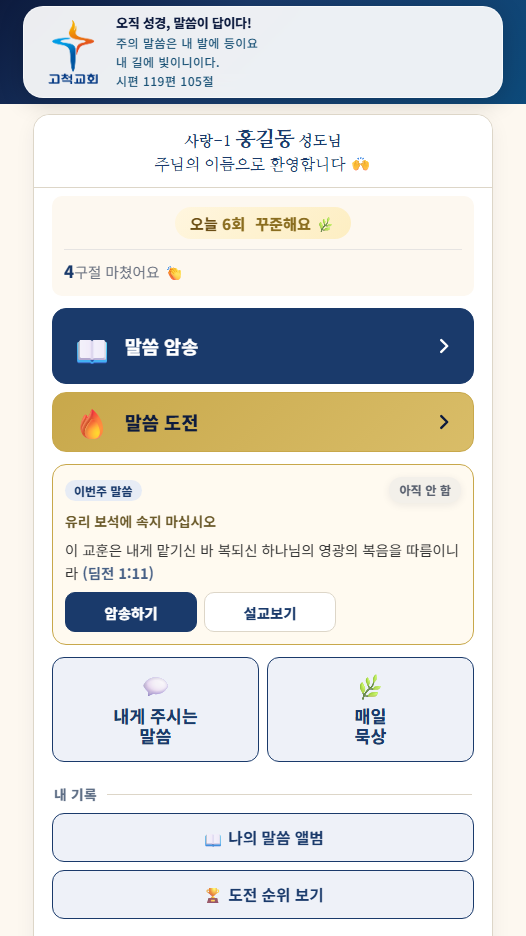
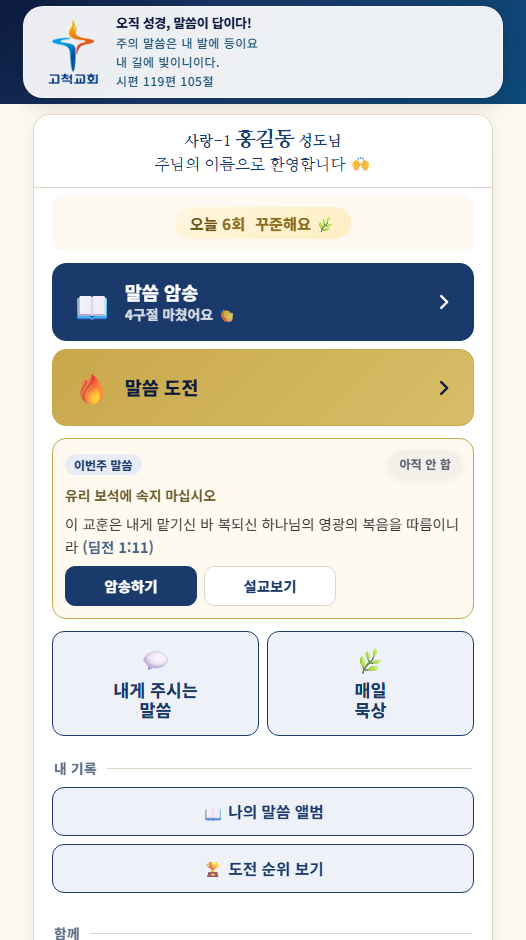
feat(첫 화면): 마친 구절 수를 「말씀 암송」 단추 안 둘째 줄로(꼭 한 줄) · 두 단추 같은 크기 · 「성경말씀 암송 퀴즈」 — v3.591
친구 — 「단추를 크게 하려면 위 글을 넣고 위에선 없애고」 · 「말씀 암송 아래 그 글은 꼭 한 줄에 다」 · 「크기도 같게」.
· 위 상자에는 「오늘 N회」 알약만 · 진행 줄(sbLine)은 TODO.sub 로 단추 안에
· 꼭 한 줄: nowrap + fitTodoSub(넘치면 0.5px 씩 · 10px 까지 · 글꼴 내려온 뒤 · 폭 바뀔 때)
· 두 단추 min-height: var(--go-h)(rem 셈 — 글자 크게 설정에서도 같이) · ≤340px 은 옆 여백·그림을 둘 다 조금 줄임
· 「더 보기」 🎯 성경암송 퀴즈 → 성경말씀 암송 퀴즈
· 도움말 「첫 화면 위쪽에」 → 「말씀 암송 단추 안에」 · guide ② 「맨 큰」 뺌 · guide/shots/home.png 다시 찍음

diff --git a/style.css b/style.css
@@ -1575,10 +1575,15 @@ body.native-app-hide-ref .word-input { scroll-margin-top: 90px; }
 /* ── 오늘 할 일 (2026-09-02) ────────────────────────────────────
    상태를 보고 하나만 크게. 아래 sub-actions 는 그 나머지라 한 단계 작다.
    ⚠ 이 둘의 크기 차이가 곧 「먼저 이걸 누르세요」다 — 비슷하게 만들면 뜻이 없어진다.
-   (2026-10-12 — 폭 · 정렬 · 그림 · 글 크기는 맞추고 높이와 색으로만 가른다. 아래 「.sub-actions.one」 덩이) */
+   (→ 2026-10-12 친구 결정으로 바뀌었다: 두 단추를 같은 크기로 — 폭 · 높이(76px) · 정렬 · 그림 · 글 크기 모두.
+      9/02 의 크기 차이는 큰 단추가 상황 따라 바뀌던 때의 것이고, 10/11 부터 두 단추는 늘 같은 자리 · 같은 이름이다.
+      이제 「먼저 이것」은 **자리(위)와 색(남색)** 이 말한다. 아래 「.sub-actions.one」 덩이와 같은 값.
+      높이 = 「말씀 암송」의 두 줄(이름 + 마친 구절 수 — 위 상자에서 옮겨 왔다) + 위아래 여백 16px + 테두리 = --go-h(보통 76px).
+      rem 으로 셈해 글자 크게 설정(시스템 글꼴 크기)에서 위 단추가 커지면 「말씀 도전」도 같이 커진다. 「말씀 도전」은 한 줄이라 높이만 맞춘다.) */
+:root { --go-h: calc(1.16rem * 1.2 + 3px + .86rem * 1.25 + 35px); }   /* .todo-tx 줄 + 틈 + .todo-sub 줄 + 여백 32 + 테두리 3 */
 .todo-go {
   display: flex; align-items: center; gap: 12px;
-  width: 100%; margin: 0 0 8px; padding: 16px 18px;
+  width: 100%; margin: 0 0 8px; padding: 16px 18px; min-height: var(--go-h);   /* 「말씀 도전」과 같은 높이(2026-10-12) */
   color: #fff; background: var(--navy); border: 1.5px solid var(--navy);
   border-radius: 14px; cursor: pointer; font-family: inherit; text-align: left;
   transition: background .15s, transform .12s, box-shadow .15s;
@@ -1588,11 +1593,10 @@ body.native-app-hide-ref .word-input { scroll-margin-top: 90px; }
 .todo-go:active { transform: translateY(0); box-shadow: 0 2px 8px rgba(13,27,62,.22); }
 .todo-go .todo-ic { font-size: 1.9rem; line-height: 1; flex: none; }
 .todo-go .todo-body { display: flex; flex-direction: column; gap: 3px; min-width: 0; }
-/* ⚠ 아래 줄(.todo-sub)이 없어도 단추 높이는 두 줄일 때와 같게 — 2026-10-12 「아직 N구절 남았어요」를 빼면서.
-   (같은 날 다 마치신 분의 축하 줄도 뺐다 — 이제 아래 줄은 늘 없다. 이 높이(76px)가 「말씀 도전」(60px)과의 차이 = 「먼저 이것」이다.)
-   줄이 빠져 단추가 12px 줄면 그 아래 「말씀 도전」이 위로 올라간다. 단추가 늘 같은 자리여야 한다는 것이
-   2026-10-11 결정이다(어르신 「자리가 바뀌어 헷갈린다」). 두 줄 높이 = 위 줄 + 틈 + 아래 줄(아래 두 규칙과 같은 값). */
-.todo-go .todo-body { min-height: calc(1.16rem * 1.2 + 3px + .86rem * 1.25); justify-content: center; }
+/* ⚠ 단추 높이는 --go-h 가 정한다 — 둘째 줄(.todo-sub · 마친 구절 수)은 **꼭 한 줄**이라(친구 2026-10-12)
+   단추가 커지지 않는다. 넘치면 app.js fitTodoSub 가 글씨를 줄인다. 두 줄로 꺾이게 두면 위 단추만 커져
+   「말씀 도전」이 아래로 밀리고(10/11 「늘 같은 자리」) 두 단추 크기도 달라진다. */
+.todo-go .todo-sub { white-space: nowrap; overflow: hidden; }
 .todo-go .todo-tx { font-size: 1.16rem; font-weight: 800; line-height: 1.2; }
 .todo-go .todo-sub { font-size: .86rem; font-weight: 600; opacity: .82; line-height: 1.25; }
 /* 도전이 오늘 할 일이면 금색 — 색은 「무엇인가」를 말한다(도전·성취=금색) */
@@ -4190,13 +4194,14 @@ body.ab-playing .verse-grid { padding-bottom: 200px; }
 .summary-actions.sub-actions .act-ic { font-size: 1.1rem; margin-bottom: 0; }
 .summary-actions.sub-actions .act-tx { font-size: .93rem; }
 /* 하나뿐일 때(「말씀 도전」) — 위 「말씀 암송」(.todo-go)과 같은 짝으로(2026-10-12 친구 「단추가 같아 보이지 않는다」).
-   폭 · 왼쪽 정렬 · 그림 크기 · 글 시작 자리 · 글 크기 · 모서리를 위 단추와 같게 두고, 높이(76 vs 60)와 색(남색 vs 금색)으로만 가른다.
+   폭 · 왼쪽 정렬 · 그림 크기 · 글 시작 자리 · 글 크기 · 모서리를 위 단추와 같게 두고, 자리(위아래)와 색(남색 vs 금색)으로만 가른다.
+   (같은 날 높이도 같게 — 친구 「크기도 같게」. --go-h = 위 단추의 두 줄 높이 · .todo-go 와 같은 값.)
    ⚠ 9/02 에는 폭을 62% 로 줄여 가운데 두었다 — 큰 단추가 상황 따라 바뀌던 「오늘 할 일 하나」 시절에 「먼저 이걸」을 크기로 말하려던 것.
       10/11 부터 두 단추가 늘 같은 자리 · 같은 이름이라 그 까닭이 없어졌고, 폭과 정렬이 다르니 다른 종류의 단추로 보였다.
    ⚠ 그림 칸에 너비를 박지 말고 글자 크기만 위 단추와 같게(1.9rem) — 그림 글자 폭은 기기 글꼴마다 다르다(윈도 크롬 📖 ≈ 41px).
       같은 글꼴의 그림 글자는 폭이 같아서, 크기만 맞추면 어느 기기에서나 「말씀」 두 글자가 위아래로 맞는다. */
 .summary-actions.sub-actions.one .summary-go {
-  flex: 1 1 100%; min-height: 60px; padding: 10px 18px; gap: 12px;
+  flex: 1 1 100%; min-height: var(--go-h); padding: 16px 18px; gap: 12px;
   justify-content: flex-start; text-align: left; border-radius: 14px;
 }
 .summary-actions.sub-actions.one .act-ic { font-size: 1.9rem; flex: none; }
@@ -4205,6 +4210,12 @@ body.ab-playing .verse-grid { padding-bottom: 200px; }
    색은 단추 글자색을 따른다(남색 단추 = 흰색 · 금색 단추 = 짙은 남색 · stroke="currentColor"). */
 .todo-go .go-chev,
 .summary-actions .summary-go .go-chev { flex: none; width: 22px; height: 22px; margin-left: auto; }
+/* 좁은 폰(≤340px · 「화면 크게」를 켠 폰이 이만큼 좁다) — 두 단추 똑같이 옆 여백 · 그림 · 틈을 조금 줄여
+   「말씀 암송」 둘째 줄(꼭 한 줄)의 글씨가 덜 줄게 한다. 두 단추에 같은 값이라 글 시작 자리는 그대로 맞는다. */
+@media (max-width: 340px) {
+  .todo-go, .summary-actions.sub-actions.one .summary-go { padding-left: 14px; padding-right: 14px; gap: 10px; }
+  .todo-go .todo-ic, .summary-actions.sub-actions.one .act-ic { font-size: 1.6rem; }
+}
 
 /* ── 사용자 정보 한 상자 (2026-09-02) ─────────────────────────────
    「오늘 몇 회」와 「전체 진행」은 둘 다 내 상태다 — 상자 둘로 나눠 두면
@@ -4223,15 +4234,14 @@ body.ab-playing .verse-grid { padding-bottom: 200px; }
 }
 /* 오늘의 보람 — 알약. 등급이 오를수록 진해진다(안 오르면 보람이 없다). */
 .user-info .today-strip {
-  display: inline-flex; width: auto; margin: 0 0 10px; padding: 5px 15px;
+  display: inline-flex; width: auto; margin: 0; padding: 5px 15px;   /* 아래 진행 줄이 단추로 옮겨 가 밑 여백 없음(2026-10-12) */
   border-radius: 999px; background: linear-gradient(135deg, #fff6df, #fdeec2);
 }
 .user-info .today-strip.t0 { background: var(--light); }
 .user-info .today-strip.t4,
 .user-info .today-strip.t5 { background: linear-gradient(135deg, #ffeeb8, #f6d67c); }
 
-.user-info .ui-div { height: 1px; background: rgba(26,58,107,.10); margin: 0 0 10px; }
-.user-info .stat-bar { margin: 0; padding: 0; background: none; border-radius: 0; }
+/* .ui-div · .stat-bar(진행 줄)는 2026-10-12 「말씀 암송」 단추 안으로 옮겨 이 상자에서 뺐다 — 위쪽 .stat-bar 규칙은 이제 안 쓰인다 */
 
 .dark .user-info { background: #1b2436; }
 .dark .user-info .today-strip { background: #2b2717; }

diff --git a/app.js b/app.js
@@ -6,7 +6,7 @@
 
 // 이 파일의 빌드 번호 — index.html의 app.js?v= 와 반드시 같아야 한다.
 // (tools/bump.py가 둘을 함께 올린다)
-const APP_BUILD = "20261012r";
+const APP_BUILD = "20261012s";
 
 // 배포 직후 CDN이 아직 옛 app.js를 내보내면, 브라우저는 그 옛 내용을 '새 주소'
 // 아래 캐시해 버린다. 주소가 다시 바뀌기 전까지(최대 10분) 옛 화면이 남는 이유다.
@@ -3229,8 +3229,9 @@ function renderSummary() {
   // ⚠ 2026-10-12 친구 결정 — 「아직 N구절 남았어요」를 뺐다. 새로 오신 분은 첫 화면에서
   //    「아직 41구절 남았어요」부터 보셨고, 구절이 매주 하나씩 늘어 내년엔 90을 넘는다 —
   //    시작도 전에 짐이 된다는 말씀이 이미 있었다. 남은 수를 세는 대신 아무 말도 하지 않는다.
-  //    같은 날 다 마치신 분의 「N구절 모두 마치셨어요 🎉」도 뺐다(친구) — 바로 위 진행 줄이 「N구절 모두 마쳤어요 🎉」로
-  //    같은 말을 해 한 화면에 두 번 나왔다. 축하는 진행 줄이 맡는다. 단추 높이는 그대로다(style.css .todo-body min-height).
+  //    같은 날 다 마치신 분의 「N구절 모두 마치셨어요 🎉」도 뺐다(친구) — 위 상자의 진행 줄과 같은 말이 두 번 나왔다.
+  //    → 그리고 거꾸로 **진행 줄을 위 상자에서 빼 이 단추 안 둘째 줄로 옮겼다**(친구 — 「단추를 크게 하려면 위 글을 넣고 위에선 없애고」).
+  //    둘째 줄은 아래 sbLine(이제 시작이에요 · N구절 마쳤어요 · N구절 모두 마쳤어요) — **꼭 한 줄**(fitTodoSub).
   // 2026-10-12 친구 — 단추 이름도 「말씀 암송하기」 → 「말씀 암송」(아래 「말씀 도전」과 짝을 맞춘다).
   //    이 이름을 부르는 곳(설명서 MANUAL 「말씀 암송」 장 · guide/index.html ② 첫 화면)도 함께 바꿨다.
   const TODO = { id: "go-list", cls: "", ic: "📖", tx: "말씀 암송", sub: "" };
@@ -3253,6 +3254,7 @@ function renderSummary() {
     : done === 0
     ? `이제 시작이에요`
     : `<b>${done}</b>구절 마쳤어요 👏`;
+  TODO.sub = sbLine;   // 2026-10-12 친구 — 위 상자가 아니라 「말씀 암송」 단추 안 둘째 줄에(꼭 한 줄 · fitTodoSub)
   const weeklyInfo = getWeeklyVerseInfo();
   const weeklyVerse = weeklyInfo && weeklyInfo.verse;
   const weeklyStage = weeklyVerse ? getPassedStage(weeklyVerse.no) : 0;
@@ -3291,13 +3293,8 @@ function renderSummary() {
          이제 정보 둘 → 이벤트 카드 → 오늘 할 일 순이다. -->
     <div class="user-info" id="user-info">
       <div class="today-strip" id="today-strip"><span class="today-txt">오늘의 말씀 활동을 불러오는 중…</span></div>
-      <div class="ui-div"></div>
-      <!-- 진행 막대 — 다 마치신 분일수록 네 칸이 「암송 0 · 진행중 0 · 미시도 0」이
-           되어 아무것도 안 한 것처럼 보였다(마음에 둠은 완료의 부분집합이라 완료에서
-           빼기 때문). 한 줄로만 말한다. -->
-      <div class="stat-bar">
-        <span class="sb-line">${sbLine}</span>
-      </div>
+      <!-- 진행 줄(sbLine · 마친 구절 수)은 2026-10-12 「📖 말씀 암송」 단추 안 둘째 줄로 옮겼다(친구) —
+           같은 말이 상자와 단추에 두 번 나왔고, 마친 수는 「암송」 단추에 붙어 있을 때 뜻이 산다. -->
     </div>
     <!-- 이벤트는 「오늘 할 일」 바로 위 — 누르는 것들 바로 앞자리다 -->
     <div id="event-slot"></div>
@@ -3379,7 +3376,7 @@ function renderSummary() {
     <button class="grp-more" id="more-toggle" aria-expanded="false" aria-controls="more-box">더 보기 <span class="gm-caret">▾</span></button>
     <div id="more-box" hidden>
       <button class="summary-help" id="open-pilsa">✍ 성경필사 노트 신청</button>
-      <button class="summary-help" id="open-quiz">🎯 성경암송 퀴즈</button>
+      <button class="summary-help" id="open-quiz">🎯 성경말씀 암송 퀴즈</button>
       <button class="summary-help" id="open-praise">🎵 고척교회 찬양 아카이브 <span class="ext-mark">↗</span></button>
       <button class="summary-help" id="open-sermon-archive">📺 고척교회 설교 아카이브 <span class="ext-mark">↗</span></button>
     </div>
@@ -3489,8 +3486,26 @@ function renderSummary() {
     } catch (e) {}
   })();
   if (homeBPreview()) applyHomeB();   // 🧪 첫 화면 B안 미리보기(?home=b 로 연 기기만)
+  fitTodoSub();   // 「말씀 암송」 둘째 줄을 꼭 한 줄로
+  try { if (document.fonts && document.fonts.ready) document.fonts.ready.then(fitTodoSub); } catch (e) {}
   maybeAutumnPopup();   // 가을 말씀암송 동행 개시 1회 안내(열린 회차가 autumn-2026 이면 한 번만)
 }
+
+// 「📖 말씀 암송」 둘째 줄(마친 구절 수)은 **꼭 한 줄**(친구 2026-10-12) — 꺾지도 자르지도 않는다.
+//   좁은 폰(320px · 어르신들이 「화면 크게」를 켜면 폭이 그만큼 좁아진다)이나 글자 크게 설정에서 넘치면
+//   글씨를 0.5px 씩 줄여 맞춘다(10px 까지). 글꼴이 늦게 내려오거나(fonts.ready) 화면 폭이 바뀌면 다시 잰다.
+function fitTodoSub() {
+  const el = document.querySelector("#go-list .todo-sub");
+  if (!el) return;
+  el.style.fontSize = "";
+  let fs = parseFloat(getComputedStyle(el).fontSize) || 14;
+  for (let i = 0; i < 24 && el.scrollWidth > el.clientWidth + 0.5 && fs > 10; i++) {
+    fs -= 0.5;
+    el.style.fontSize = fs + "px";
+  }
+}
+let _fitTodoSubT = 0;
+window.addEventListener("resize", () => { clearTimeout(_fitTodoSubT); _fitTodoSubT = setTimeout(fitTodoSub, 120); });
 
 // 「더 보기」 — 필사·퀴즈·아카이브 둘. 이건 연 상태를 기억한다.
 // 자주 쓰시는 분이 매번 다시 펴야 하면 접어 둔 뜻이 없다.
@@ -9016,7 +9031,7 @@ function renderHelp(onClose) {
 
         <section class="help-section">
           <h3>🏷 내 기록 & 진행 표시</h3>
-          <p>첫 화면 위쪽에 <b>마친 구절 수</b>가 보여요. 말씀 목록 카드에는 <b>아직 안 함 · 1단계 마침 · 2단계 마침 · 다 마침</b>(+ 암송 횟수)이 보여요. 목록 위 <b>전체 · 진행 · 마침 · 마음에 둠 · 안 함</b>을 누르면 그것만 모아 볼 수 있어요. 마음에 둔 말씀은 본문 대신 <b>첫 낱말 힌트</b>로 보여요 — 떠올려 보세요. 3단계를 마친 말씀은 <b>📖 나의 말씀 앨범</b>에 모여요.</p>
+          <p>첫 화면 <b>📖 말씀 암송</b> 단추 안에 <b>마친 구절 수</b>가 보여요. 말씀 목록 카드에는 <b>아직 안 함 · 1단계 마침 · 2단계 마침 · 다 마침</b>(+ 암송 횟수)이 보여요. 목록 위 <b>전체 · 진행 · 마침 · 마음에 둠 · 안 함</b>을 누르면 그것만 모아 볼 수 있어요. 마음에 둔 말씀은 본문 대신 <b>첫 낱말 힌트</b>로 보여요 — 떠올려 보세요. 3단계를 마친 말씀은 <b>📖 나의 말씀 앨범</b>에 모여요.</p>
         </section>
 
         <section class="help-section">

diff --git a/index.html b/index.html
@@ -65,7 +65,7 @@
   <link rel="preconnect" href="https://fonts.gstatic.com" crossorigin />
   <link href="https://fonts.googleapis.com/css2?family=Gowun+Batang:wght@400;700&family=Lora:wght@400;600;700&family=Nanum+Myeongjo:wght@400;700;800&family=Noto+Sans+KR:wght@400;500;700;800&display=swap" rel="stylesheet" media="print" onload="this.media='all'" />
   <noscript><link href="https://fonts.googleapis.com/css2?family=Gowun+Batang:wght@400;700&family=Lora:wght@400;600;700&family=Nanum+Myeongjo:wght@400;700;800&family=Noto+Sans+KR:wght@400;500;700;800&display=swap" rel="stylesheet" /></noscript>
-  <link rel="stylesheet" href="style.css?v=20261012r" />
+  <link rel="stylesheet" href="style.css?v=20261012s" />
 </head>
 <body>
   <!-- 앱 시작 스플래시 화면 -->
@@ -74,7 +74,7 @@
       <img id="splash-logo" src="img/logo-gocheok.png" alt="고척교회" />
       <div class="splash-title">오직 성경, 말씀이 답이다!</div>
       <div class="splash-sub">주의 말씀은 내 발에 등이요<br>내 길에 빛이니이다</div>
-      <div class="splash-ver">v3.590</div>
+      <div class="splash-ver">v3.591</div>
       <img class="splash-denom" src="logo3.png?v=20260702y" alt="대한예수교장로회총회" onerror="this.style.display='none'" />
     </div>
   </div>
@@ -107,11 +107,11 @@
     <p style="text-align:center;padding:40px">불러오는 중...</p>
   </main>
 
-  <script src="js/config.js?v=20261012r"></script>
-  <script src="js/api.js?v=20261012r"></script>
-  <script src="js/push.js?v=20261012r"></script>
-  <script src="js/psalm.js?v=20261012r"></script>
-  <script src="js/events.js?v=20261012r"></script>
-  <script src="app.js?v=20261012r"></script>
+  <script src="js/config.js?v=20261012s"></script>
+  <script src="js/api.js?v=20261012s"></script>
+  <script src="js/push.js?v=20261012s"></script>
+  <script src="js/psalm.js?v=20261012s"></script>
+  <script src="js/events.js?v=20261012s"></script>
+  <script src="app.js?v=20261012s"></script>
 </body>
 </html>

diff --git a/guide/index.html b/guide/index.html
@@ -177,9 +177,9 @@ var STEPS = [
     say:"앱의 <b>❓ 도움말</b>에서 ①번 <b>📲 지금 만들기</b>를 누르면 이런 안내가 나와요. 안드로이드는 「설치」 창이 바로 뜨기도 하고, 아이폰은 화면 맨 아래 <b>공유 단추</b>를 눌러 「홈 화면에 추가」를 고르시면 됩니다.",
     tip:"카카오톡 안에서 열면 되지 않아요. 먼저 「사파리로 열기」나 「다른 브라우저로 열기」를 누르세요." },
 
-  { img:"shots/home.png", t:"② 첫 화면", tap:{x:50,y:37},
+  { img:"shots/home.png", t:"② 첫 화면", tap:{x:50,y:32},
     s:"여기서 모든 것이 시작돼요.",
-    say:"내 이름과 <b>오늘 몇 번</b> 했는지가 위에 보여요. 그 아래 <b>맨 큰 남색 단추</b>가 「말씀 암송」, 바로 밑 금색 단추가 「말씀 도전」입니다.",
+    say:"내 이름과 <b>오늘 몇 번</b> 했는지가 위에 보여요. 그 아래 <b>남색 단추</b>가 「말씀 암송」, 바로 밑 <b>금색 단추</b>가 「말씀 도전」입니다.",
     tip:"두 단추는 늘 같은 자리에 있어요." },
 
   { img:"shots/list.png", t:"③ 말씀 목록", tap:{x:45,y:31},

diff --git a/admin.html b/admin.html
@@ -72,7 +72,7 @@
   // 관리 도구 목록 — 앞으로 여기에 한 줄씩 추가하면 됩니다
   const TOOLS = [
     // 성도 정보 관리는 교회 어드민(admin.onlybible.kr 「👤 성도 계정」)으로 옮겼다(2026-10-09) — 여기서 걷었다.
-    { ic:"📖", title:"성경암송 관리", desc:"통계 · 알림발송 · 주간리포트 · 게시판", href:"admin-stats.html?v=20261012r" },
+    { ic:"📖", title:"성경암송 관리", desc:"통계 · 알림발송 · 주간리포트 · 게시판", href:"admin-stats.html?v=20261012s" },
     { ic:"🎉", title:"이벤트 관리", desc:"회차 만들기 · 신청 명단 · 인쇄", href:"admin-event.html" },
     { ic:"🎵", title:"찬양 아카이브 관리", desc:"곡 등록 · 콤보순서 · 조회수 · 사용현황", href:"admin-praise.html" },
     { ic:"⛪", title:"설교·찬양 관리", desc:"설교 올리기(두 단계) · 설교 목록 · 매일 묵상 · 담당자 — 담당자도 이 주소로", href:"admin-sermon.html" },

diff --git a/docs/notes/home-screen.md b/docs/notes/home-screen.md
@@ -55,6 +55,17 @@
 - **2026-10-12 두 단추 오른쪽 끝에 「›」(친구 — 디자인 시안의 두 단추).** 누르면 다음 화면으로 간다는 표시. `renderSummary` 의 `GO_CHEV`(SVG · `aria-hidden` — 읽어 주기에서 「›」를 읽지 않게) · CSS `.go-chev`(22px · `margin-left: auto`). 글자(>·›)가 아니라 SVG 인 까닭: 기기 글꼴마다 꺾쇠의 굵기·높이가 달라 두 단추에서 어긋난다. 색은 단추 글자색을 따른다(남색 단추 흰색 · 금색 단추 짙은 남색).
   같은 날 **다 마치신 분의 「N구절 모두 마치셨어요 🎉」도 단추에서 뺐다**(친구 — 바로 위 진행 줄 「N구절 모두 마쳤어요 🎉」와 같은 말이 한 화면에 두 번). 축하는 진행 줄이 맡는다. 이제 단추 아래 줄은 늘 없고, 큰 단추 높이 76px(「말씀 도전」 60px 과의 차이 = 「먼저 이것」)은 `.todo-go .todo-body` 의 `min-height` 가 지킨다 — 320px 에서 이 줄 때문에 94px 로 커지던 것도 없어졌다. (꺾쇠 때문에 잠깐 넣었던 `keep-all`·붙는 빈칸은 함께 걷었다 · 템플릿의 `TODO.sub` 자리는 남겨 두었다.)
   확인: 폭 320·360·390·430 × 밝은·어두운 × A·B × 다 마친 분 — 두 꺾쇠의 오른쪽 끝(19px)·세로 가운데가 같다 · 글 시작 그대로(112) · 두 단추 높이 76·60 · 넘침 0. `guide/shots/home.png` 다시 찍음.
+- **2026-10-12 두 단추 높이도 같게 — 60px(친구 「글을 뺐다면 크기도 같게」 · → 바로 다음 항목에서 77px 로 바뀌었다).** 단추 안 글이 이름뿐이 되어 76px 은 빈 높이였다(`.todo-body` 의 두 줄 `min-height` 가 지키던 것). `.todo-go` 를 `padding: 10px 18px; min-height: 60px` 로 「말씀 도전」(`.sub-actions.one`)과 같게 하고 그 `min-height` 규칙은 걷었다. 이제 두 단추는 폭·높이·정렬·그림·글 크기·「›」가 모두 같고, **「먼저 이것」은 자리(위)와 색(남색)** 이 말한다 — 9/02 「크기 차이 = 먼저 누를 것」은 큰 단추가 상황 따라 바뀌던 때의 것이라 걷었다(style.css 주석에 남김). 첫 화면이 16px 짧아졌다.
+  같이 고친 말: `guide/index.html` ② 「그 아래 **맨 큰** 남색 단추가 「말씀 암송」」 → 「그 아래 남색 단추가 …, 바로 밑 금색 단추가 …」(이제 크기가 같아 참이 아니다 — 스킬 `copy-truth`). `guide/shots/home.png` 다시 찍음.
+  ⚠ 단추 아래 줄(`TODO.sub`)을 되살리면 위 단추만 커져 「말씀 도전」이 아래로 밀린다(10/11 「늘 같은 자리」) — 그때는 두 단추 높이를 함께 볼 것.
+  확인: 폭 320·360·390·430 × 밝은·어두운 × A·B × 다 마친 분 — 두 단추 60·60 · 글 시작 112·112 · 「›」 오른쪽 끝 같음 · 넘침 0.
+- **2026-10-12 마친 구절 수를 위 상자에서 「📖 말씀 암송」 단추 안 둘째 줄로 · 두 단추는 같은 큰 크기(친구 — 「단추를 크게 하려면 위 글을 넣고 위에선 없애고」 · 「말씀 암송 아래 그 글은 꼭 한 줄에 다」).**
+  - 위 상자(`#user-info`)에는 「오늘 N회 …」 알약만 남았다(`.ui-div`·`.stat-bar` 를 뺐다 · 알약 밑 여백 0). 진행 줄 `sbLine`(「이제 시작이에요」 · 「N구절 마쳤어요 👏」 · 「N구절 모두 마쳤어요 🎉」)은 `TODO.sub` 로 단추 안에. 도움말 「🏷 내 기록 & 진행 표시」도 「첫 화면 위쪽에」 → 「첫 화면 📖 말씀 암송 단추 안에」.
+  - **꼭 한 줄**: `.todo-sub { white-space: nowrap; overflow: hidden }` + `fitTodoSub()`(app.js — 넘치면 글씨를 0.5px 씩 줄인다 · 10px 까지 · 첫 화면 그린 뒤 · 글꼴이 내려온 뒤 · 화면 폭이 바뀔 때). 꺾이게 두면 위 단추만 커져 「말씀 도전」이 밀리고 두 단추 크기도 달라진다.
+  - **같은 크기**: 두 단추 모두 `min-height: var(--go-h)` — `--go-h` = 이름 줄 + 틈 + 둘째 줄 + 여백 32 + 테두리 3(보통 77px). rem 셈이라 글자 크게 설정(시스템 글꼴 크기)에서도 둘이 같이 커진다(root 20px 에서 87·87). 「말씀 도전」은 한 줄이라 높이만 맞춘다.
+  - 좁은 폰(≤340px — 어르신들이 「화면 크게」를 켜면 폭이 이만큼 좁다)은 두 단추 똑같이 옆 여백 18→14 · 그림 1.9→1.6rem · 틈 12→10 — 둘째 줄 글씨가 덜 준다(320px 「41구절 모두 마쳤어요 🎉」 10.8 → 12.3px). 같은 값이라 글 시작 자리는 그대로 맞는다.
+  - 확인: 폭 320·340·360·375·390·412·430 × 0·6·38·41(다)·99/101·101(다) × 밝은·어두운 × A·B × 글자 크게(root 20px) — 둘째 줄 한 줄 · 잘림 없음 · 「›」와 안 닿음 · 두 단추 같은 높이 · 글 시작 같음 · 위 상자에 진행 줄 없음 · 넘침 0 · 가장 작은 글씨 11.8px(320px · 101구절 다 마침). `guide/shots/home.png` 다시 찍음(② 동그라미 자리도).
+- **2026-10-12 「더 보기」 단추 이름 「🎯 성경암송 퀴즈」 → 「🎯 성경말씀 암송 퀴즈」(친구).** 이 이름은 첫 화면 단추 한 곳뿐이다(퀴즈 화면 `quiz/` 제목은 「말씀 퀴즈」 그대로). 320px 한 줄 · B안 칸 두 줄로 잘림 없음.
 - **2026-10-12 첫 실행을 가볍게 — 🎓 교육·🙋 봉사 당번 화면 코드는 필요할 때 받는다**(`index.html` 에서 `js/edu.js`·`js/duty.js` 를 뺐다 · 140KB/gzip 44KB · 단추가 보이면 한가할 때 미리 · 알림 주소는 첫 그리기 앞에서 기다린다). 단추를 숨기는 문 판단은 `app.js` 에 그대로다.
   ⚠ 「교회 생활」 묶음에 단추를 더하거나 두 파일의 전역을 `app.js` 에서 새로 부르기 전에 `docs/notes/lazy-load.md` — 첫 화면이 동기로 부르는 것을 지연 파일에 두면 그 자리가 조용히 빈다.
 

diff --git a/docs/notes/design-refresh.md b/docs/notes/design-refresh.md
@@ -19,7 +19,7 @@
 
 ## 시안 전체를 고르기 전에 먼저 앱에 넣은 것 (2026-10-12 친구 결정 · 새로 오신 분 부담 덜기)
 차례(4~7단계)를 건너뛰고 바로 운영에 넣었다 — 새로 오신 분이 힘들어하신다는 것이 까닭이다. **색은 지금 앱 색 그대로**(친구가 「지금 앱 색 유지」를 골랐다).
-- **첫 화면** — 큰 단추 아래 「아직 N구절 남았어요」를 뺐다 · 단추 이름 「말씀 암송하기」 → 「말씀 암송」 · 진행 줄에서 전체 수·%·막대를 뺐다(마친 수만) · 「🔥 말씀 도전」을 「📖 말씀 암송」과 같은 폭·정렬·그림·글 크기로(높이와 색으로만 가름 — 「같은 일은 같은 모양」 원칙의 첫 걸음) · 두 단추 오른쪽 끝에 시안의 「›」 · 다 마치신 분의 축하 줄도 단추에서 뺐다(진행 줄과 같은 말 — 단추 안 글은 이제 이름뿐). 상세 `docs/notes/home-screen.md` 끝.
+- **첫 화면** — 큰 단추 아래 「아직 N구절 남았어요」를 뺐다 · 단추 이름 「말씀 암송하기」 → 「말씀 암송」 · 진행 줄에서 전체 수·%·막대를 뺐다(마친 수만) · 「🔥 말씀 도전」을 「📖 말씀 암송」과 같은 폭·정렬·그림·글 크기·높이로(자리와 색으로만 가름 — 「같은 일은 같은 모양」 원칙의 첫 걸음) · 마친 구절 수를 위 상자에서 「말씀 암송」 단추 안 둘째 줄로(꼭 한 줄 · `fitTodoSub`) · 두 단추 오른쪽 끝에 시안의 「›」 · 같은 말이 두 번 나오던 것(위 상자 진행 줄 · 단추 축하 줄)은 하나로 — 단추 안 둘째 줄만 남았다. 상세 `docs/notes/home-screen.md` 끝.
 - **말씀 목록 = 시안 B 구조** — 카드에 풀어 쓴 구절 이름(`verseRefFull` — 「살전 5:16-18」 → 「데살로니가전서 5장 16-18절」)과 **본문 두 줄**(`verseText`, 명조 · 말줄임), 그 아래 상태 칩, 🔊 는 오른쪽. CSS 는 `style.css` 끝 「말씀 목록 — 시안 B 구조」 덩이.
   - **거르기 칸 다섯 = 외우는 걸음 사다리**(친구 · 같은 날 고침): 전체 · **진행**(1·2단계) · **마침**(3단계 · 마음에 두지 않음) · **마음에 둠** · **안 함**. **한 구절은 한 칸에만** 든다(`vlKind` — 마음에 둔 구절은 「마침」에서 뺀다 · 예전 첫 화면 네 칸과 같은 나눔). 「마침」이 비었는데 마음에 둔 구절이 있으면 「마친 말씀은 모두 「마음에 둠」에 있어요」 — 「아직 없음」과 뭉개지 않는다.
   - **마음에 둔 구절은 어느 칸에서나 본문 대신 첫 낱말 힌트**(담당자가 넣는 `hintText` · 「주의 OOO O」 — 다 외운 말씀이니 떠올려 보게). 힌트가 비었거나 영어 모드면(힌트는 한국어) **담당자 꼴 그대로** 본문에서 만든다(`vlAutoHint` — 첫 낱말 + 다음 두 낱말을 글자 수만큼 O · 운영 힌트 39개 중 33개가 이 규칙과 글자까지 같았다). ⚠ 처음엔 앨범 「첫 글자만」(`firstCharHint`)으로 만들어 본문 전체가 「지○○ 그 행○ 일○ …」로 길게 나왔다(친구 제보 — 힌트가 빈 39·41번). 처음엔 「본문 전체」로 힌트를 아예 안 보였다가 이렇게 되살렸다 — 담당자 힌트 입력은 계속 쓰인다.
